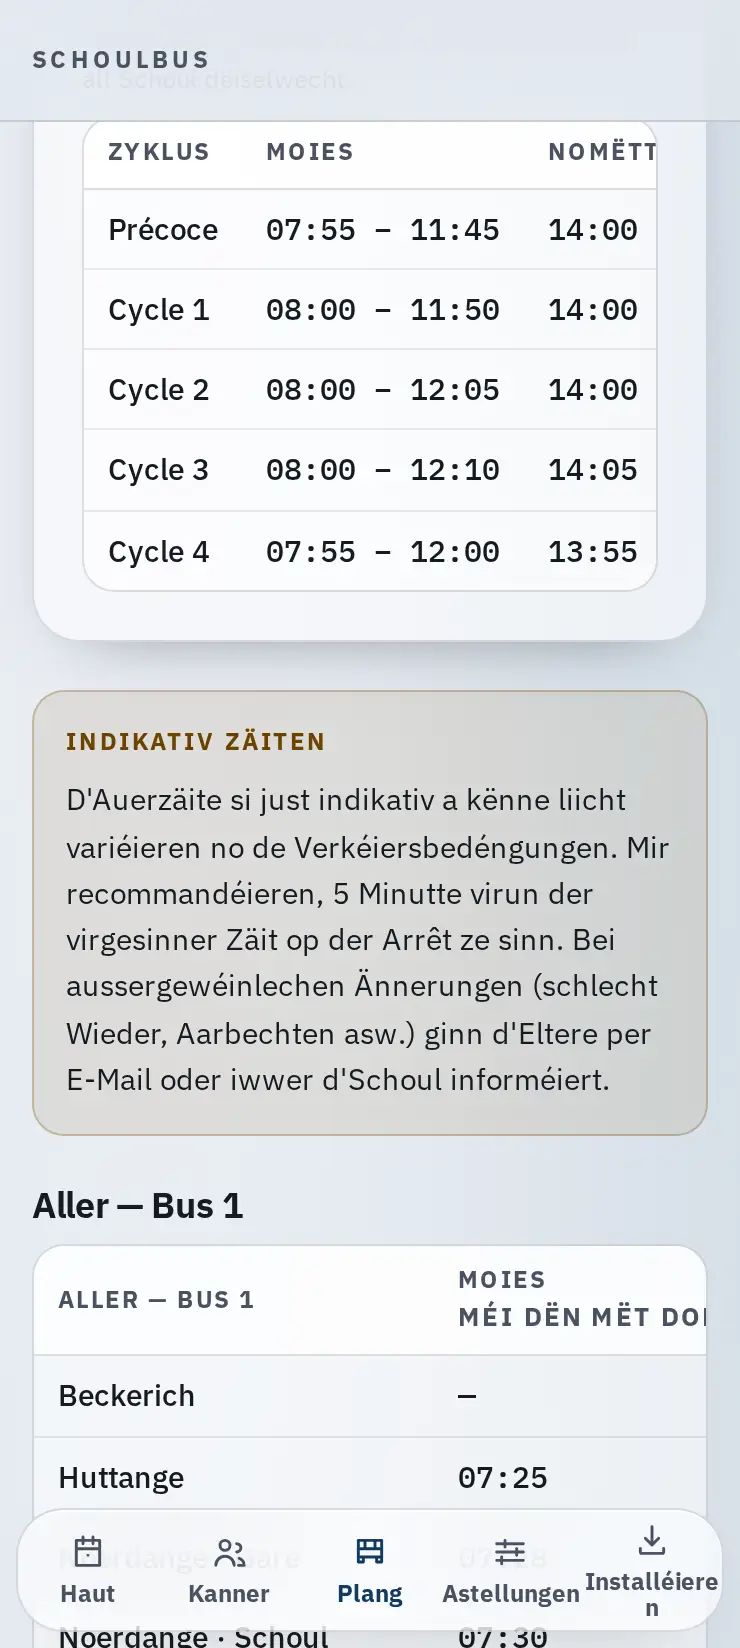
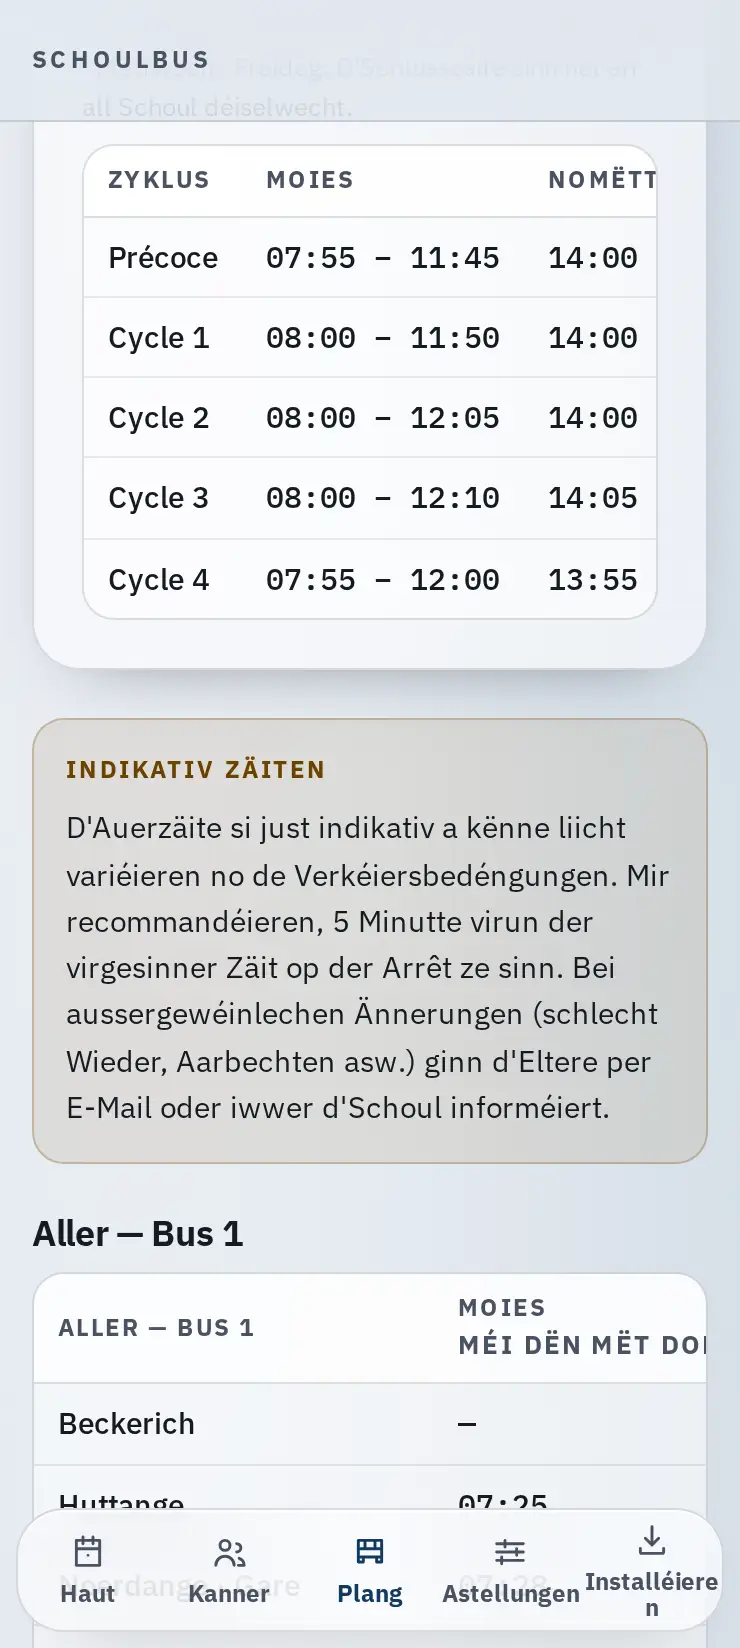
Le cadrage attend que la page se taise
L’écran du plan se cadre en défilant jusqu’au premier tableau, et ce calcul
se faisait avant l’attente de stabilité, qui venait après. Trois exécutions
identiques ici, trois fichiers différents sur le runner : c’est la CI qui
cadrait juste. On cadre maintenant sur un document immobile, et on recommence
tant que la position bouge.

Claude-Session: https://claude.ai/code/session_01AGcfDp9zB3wVandKt34cfm

diff --git a/README.md b/README.md
@@ -406,6 +406,25 @@ n'était visible par la porte, parce qu'aucun ne portait sur ce que la porte sai
   **La leçon générale, et elle vaut pour les chiffres autant que pour les jetons : ce qui
   est à côté sur le disque n'est pas ce qui est en ligne.**
 
+- *« Les captures dépendent de l'environnement qui les produit. »* — **Une part de cette
+  réserve n'était pas de l'environnement, c'était un défaut.** Le cadrage de l'écran `plan`
+  — le seul des quatre qui se prenne en défilant jusqu'au premier tableau — se calculait
+  AVANT toute attente de stabilité du document, et l'attente venait après. Sur cette
+  machine, trois exécutions de suite, dont une en `root` comme l'intégration continue,
+  rendaient des fichiers identiques à l'octet ; sur le runner, plus lent, trois
+  `plan-*-sombre` sur cinq sortaient différents. C'est l'intégration continue qui cadrait
+  juste, et la machine de développement qui cadrait trop tôt.
+
+  Le cadrage se prend désormais sur un document qui s'est tu, et se reprend tant que la
+  position calculée change. Les dix fichiers `plan-*` sont régénérés — ils convergent vers
+  les tailles exactes que la CI avait calculées, ce qui est la confirmation du diagnostic —
+  et deux exécutions consécutives rendent maintenant les mêmes octets.
+
+  **Ce qui reste de la réserve** est ce qu'elle disait d'abord : les `semaine-*` portent une
+  carte Leaflet, et rien ne garantit qu'ils traversent un changement d'étiquette du
+  conteneur. Mais la leçon du jour est plus utile que la réserve : *un fichier qui se
+  reproduit trois fois de suite sur une machine n'est pas pour autant déterministe.*
+
 - *« La vitrine décrit une application plus ancienne que celle qui est en ligne. »* — Levée
   le 9 septembre. Les quarante captures sont reprises à `185ebe1`, le `main` de
   l'application, et « Sept questions » est devenu « **Six** questions » dans les cinq
